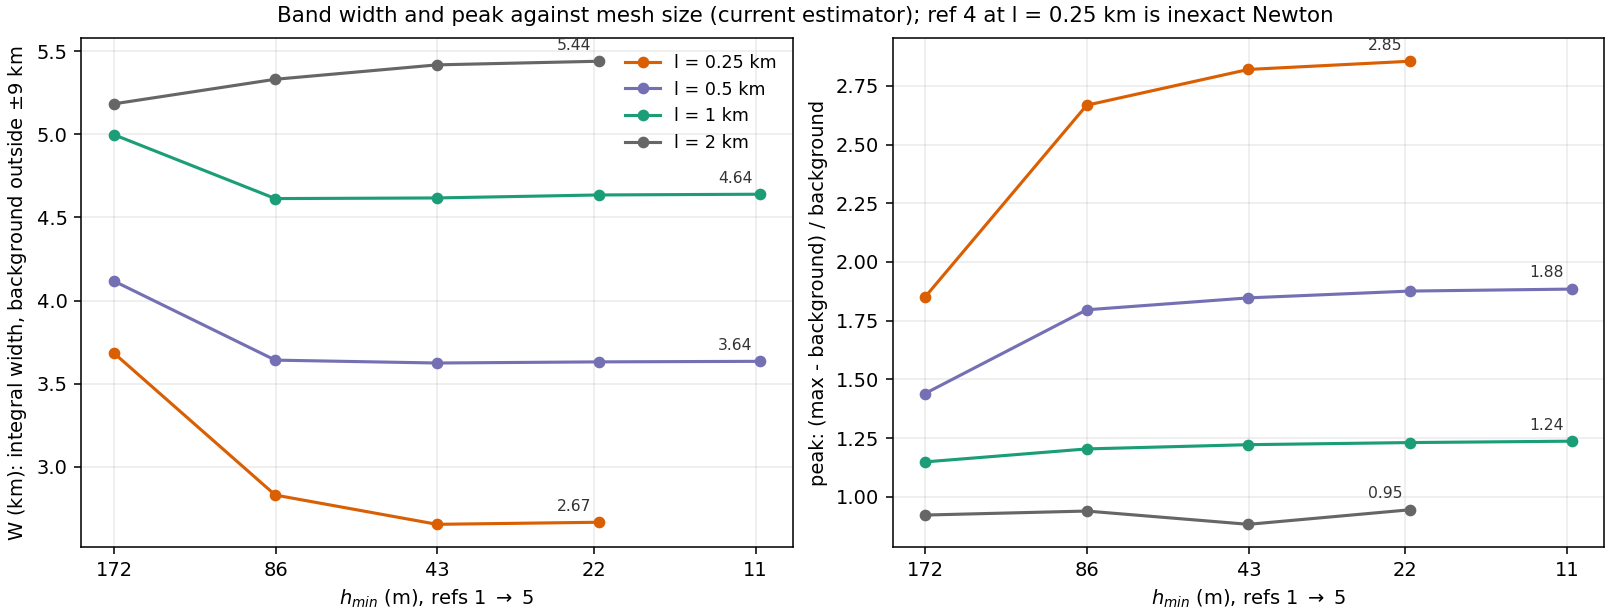
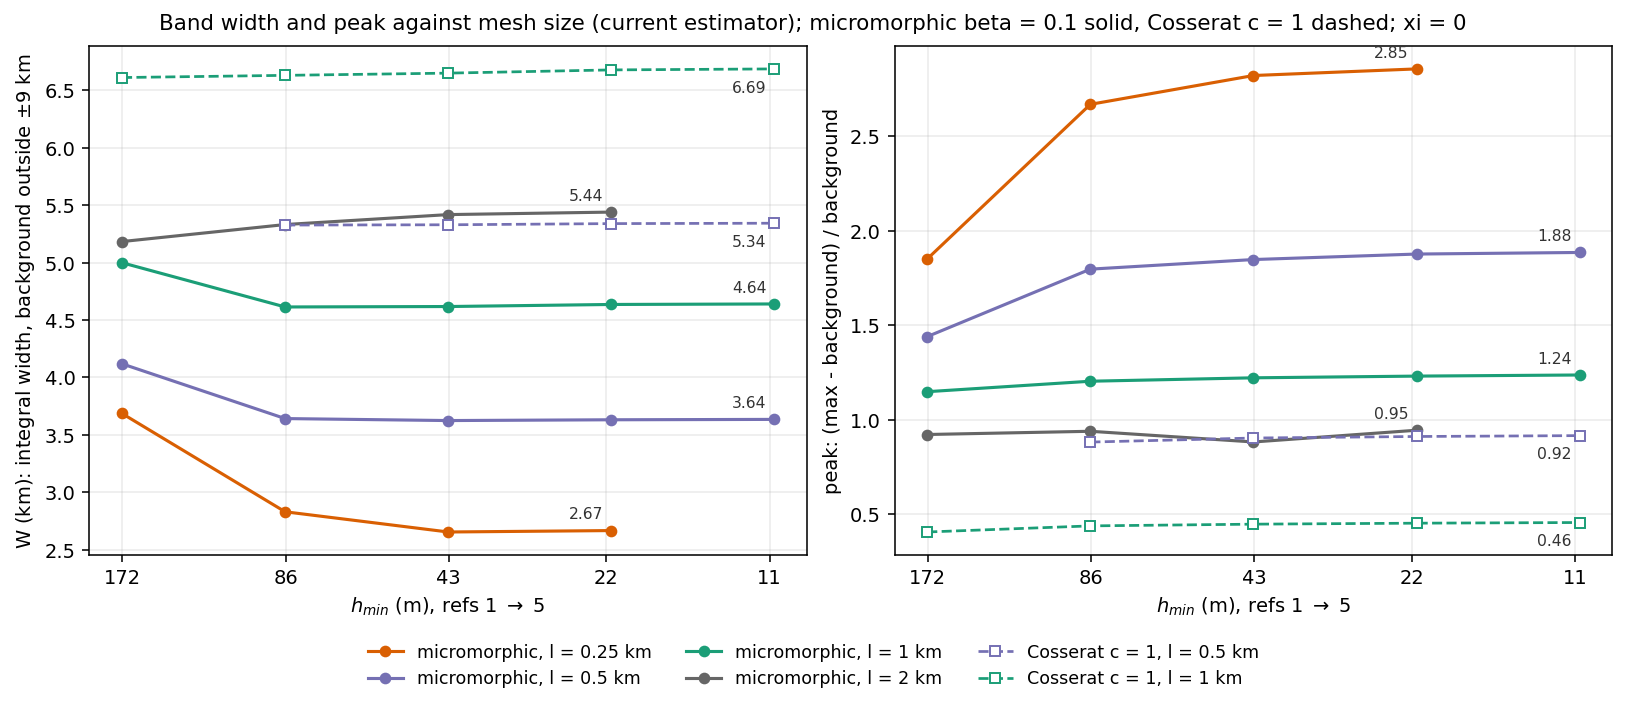
notch: Cosserat through ref 5; selective_ranks writes fixed
Cosserat (c = 1, omega P1, xi = 0) grid-sequenced to ref 4 (np 8) and ref 5 (np 16):
3-4 Newton steps, W 6.61 -> 6.69 km (l = 1) and 5.33 -> 5.34 km (l = 0.5) over refs
1-5, current estimator. About 45% wider and 2-2.7x weaker in peak than micromorphic
at the same l; this replaces "15% wider, 4x weaker" (whole-cut background). Cosserat
maps, mesh zoom, profiles; Cosserat overlaid on width_peak_vs_h. FMG table gains the
Cosserat rows (flat, 27-36 per step; 47 at l = 1, ref 5, np 16).

uw.selective_ranks(0) is a generator context manager: the body runs on EVERY rank
and the yielded flag must be tested. The drivers' bare `with` blocks had every rank
write the same JSON; two of 139 files were corrupted (trailing duplicate text,
recovered from the first document). All four sites now test the flag.

campaign_runner: -uw_linger keeps polling for appended jobs before exiting.

Underworld development team with AI support from Claude Code

diff --git a/notch_length_scale/drivers/plot_refinement.py b/notch_length_scale/drivers/plot_refinement.py
@@ -18,12 +18,18 @@ _here = os.path.dirname(os.path.abspath(__file__))
 RES = os.path.join(_here, "..", "results")
 FIG = os.path.join(_here, "..", "figures")
 rows = json.load(open(os.path.join(RES, "current_widths.json")))
+_coss = os.path.join(RES, "current_widths_cosserat.json")
+coss_rows = json.load(open(_coss)) if os.path.exists(_coss) else []
 REF_COLOURS = {1: "#c6dbef", 2: "#9ecae1", 3: "#4292c6", 4: "#08519c", 5: "#08306b"}
 REF_WIDTH = {1: 1.0, 2: 1.2, 3: 1.5, 4: 1.8, 5: 2.0}
 
-fig, axes = plt.subplots(1, 2, figsize=(11.5, 4.6), constrained_layout=True, sharey=True)
-for ax, l_km in zip(axes, (1.0, 0.5)):
-    for r in sorted((r for r in rows if r["l_km"] == l_km), key=lambda r: r["ref"]):
+for model_rows, label, out in ((rows, "Micromorphic notch, beta = 0.1", "refinement_profiles.png"),
+                               (coss_rows, "Cosserat notch, c = 1", "refinement_profiles_cosserat.png")):
+  if not model_rows:
+    continue
+  fig, axes = plt.subplots(1, 2, figsize=(11.5, 4.6), constrained_layout=True, sharey=True)
+  for ax, l_km in zip(axes, (1.0, 0.5)):
+    for r in sorted((r for r in model_rows if r["l_km"] == l_km), key=lambda r: r["ref"]):
         p = r["profile"]
         ax.plot(p["y_km"], p["over_background"], color=REF_COLOURS[r["ref"]],
                 lw=REF_WIDTH[r["ref"]],
@@ -33,11 +39,10 @@ for ax, l_km in zip(axes, (1.0, 0.5)):
                  fontsize=10)
     ax.set_xlabel("y (km)")
     ax.grid(alpha=0.25)
-axes[0].set_ylabel(r"$\dot\varepsilon_{II}$ / background (median outside $\pm$9 km)")
-axes[1].legend(frameon=False, fontsize=9)
-fig.suptitle("Micromorphic notch, beta = 0.1, xi = 0: profile across the left band, refs 1-5",
-             fontsize=11)
-fig.savefig(os.path.join(FIG, "refinement_profiles.png"), dpi=140)
+  axes[0].set_ylabel(r"$\dot\varepsilon_{II}$ / background (median outside $\pm$9 km)")
+  axes[1].legend(frameon=False, fontsize=9)
+  fig.suptitle(f"{label}, xi = 0: profile across the left band, refs 1-5", fontsize=11)
+  fig.savefig(os.path.join(FIG, out), dpi=140)
 
 L_COLOURS = {0.25: "#d95f02", 0.5: "#7570b3", 1.0: "#1b9e77", 2.0: "#666666"}
 fig, axes = plt.subplots(1, 2, figsize=(11.5, 4.4), constrained_layout=True)
@@ -48,9 +53,19 @@ for l_km, colour in L_COLOURS.items():
     h = np.array([1e3 * r["h_min_km"] for r in sel])
     for ax, key in zip(axes, ("W_km", "peak")):
         ax.plot(h, [r[key] for r in sel], "-o", color=colour, ms=5, lw=1.6,
-                label=f"l = {l_km:g} km")
+                label=f"micromorphic, l = {l_km:g} km")
         ax.annotate(f"{sel[-1][key]:.2f}", (h[-1], sel[-1][key]), textcoords="offset points",
                     xytext=(-4, 6), ha="right", fontsize=8, color="#333333")
+for l_km, colour in L_COLOURS.items():
+    sel = sorted((r for r in coss_rows if r["l_km"] == l_km), key=lambda r: r["ref"])
+    if not sel:
+        continue
+    h = np.array([1e3 * r["h_min_km"] for r in sel])
+    for ax, key in zip(axes, ("W_km", "peak")):
+        ax.plot(h, [r[key] for r in sel], "--s", color=colour, ms=5, lw=1.4, mfc="white",
+                label=f"Cosserat c = 1, l = {l_km:g} km")
+        ax.annotate(f"{sel[-1][key]:.2f}", (h[-1], sel[-1][key]), textcoords="offset points",
+                    xytext=(-4, -12), ha="right", fontsize=8, color="#333333")
 h_ticks = sorted({round(1e3 * r["h_min_km"]) for r in rows}, reverse=True)
 for ax in axes:
     ax.set_xscale("log")
@@ -61,8 +76,10 @@ for ax in axes:
     ax.grid(alpha=0.25, which="both")
 axes[0].set_ylabel("W (km): integral width, background outside $\\pm$9 km")
 axes[1].set_ylabel("peak: (max - background) / background")
-axes[0].legend(frameon=False, fontsize=9)
-fig.suptitle("Band width and peak against mesh size (current estimator); "
-             "ref 4 at l = 0.25 km is inexact Newton", fontsize=11)
-fig.savefig(os.path.join(FIG, "width_peak_vs_h.png"), dpi=140)
+handles, labels = axes[0].get_legend_handles_labels()
+fig.legend(handles, labels, loc="lower center", ncol=3, frameon=False, fontsize=9,
+           bbox_to_anchor=(0.5, -0.13))
+fig.suptitle("Band width and peak against mesh size (current estimator); micromorphic "
+             "beta = 0.1 solid, Cosserat c = 1 dashed; xi = 0", fontsize=11)
+fig.savefig(os.path.join(FIG, "width_peak_vs_h.png"), dpi=140, bbox_inches="tight")
 print("written")

diff --git a/notch_length_scale/drivers/render_refinement.py b/notch_length_scale/drivers/render_refinement.py
@@ -28,25 +28,31 @@ sys.path.insert(0, _here)
 import coupled_notch as cn   # noqa: E402
 
 pv.OFF_SCREEN = True
+params = uw.Params(
+    uw_model=uw.Param("micromorphic", description="micromorphic (beta 0.1) | cosserat "
+                                                  "(c = 1, P1); xi = 0 either way"),
+)
+MODEL = str(params.uw_model)
+SUFFIX = "" if MODEL == "micromorphic" else "_" + MODEL
 if uw.mpi.size > 1:
     raise RuntimeError("render_refinement.py draws on one process: run it without mpirun")
 
 RES = os.path.join(_here, "..", "results")
 FIG = os.path.join(_here, "..", "figures")
-CHECKPOINTS = os.path.join(RES, "micromorphic", "checkpoints")
+CHECKPOINTS = os.path.join(RES, MODEL, "checkpoints")
 L_ROWS = [1.0, 0.5]
 REFS = [3, 4, 5]
 MAP_BOX = (-32.0, 32.0, -22.0, 0.0)            # x0, x1, y0, y1 in km
 ZOOM_HALF = 4.0                                # km: an 8 km x 8 km window (the band is ~6 km tall here)
 CUT_X = -15.0                                  # km, the profile cut
 widths = {(r["ref"], r["l_km"]): r["W_km"]
-          for r in json.load(open(os.path.join(RES, "current_widths.json")))}
+          for r in json.load(open(os.path.join(RES, f"current_widths{SUFFIX}.json")))}
 
 
 def load(ref, l_km):
     """The run's mesh as pyvista (km) with log10 edot_II / (V/H) at its vertices, and
     the y (km) of the band's peak on the cut x = -15 km."""
-    name = cn.canonical_run(ref, l_km)
+    name = cn.canonical_run(ref, l_km, model=MODEL)
     S = cn.build_notch(ref, 0.0, seed=False)
     S["v"].read_timestep(name, S["v"].name, 0, outputPath=CHECKPOINTS)
     pvm = vis.mesh_to_pv_mesh(S["mesh"])
@@ -152,9 +158,11 @@ def figure(boxes, with_mesh, out, title, annotate):
     print(path, "clim", clim)
 
 
-figure({k: MAP_BOX for k in panels}, False, "refinement_maps.png",
-       "Micromorphic notch, beta = 0.1, xi = 0: edot_II across refinement (refs 3, 4, 5)",
+LABEL = ("Micromorphic notch, beta = 0.1" if MODEL == "micromorphic"
+         else "Cosserat notch, c = 1, omega P1")
+figure({k: MAP_BOX for k in panels}, False, f"refinement_maps{SUFFIX}.png",
+       f"{LABEL}, xi = 0: edot_II across refinement (refs 3, 4, 5)",
        annotate=False)
-figure(zoom_boxes, True, "refinement_zoom.png",
-       f"The left band where it crosses x = {CUT_X:g} km, with the mesh "
+figure(zoom_boxes, True, f"refinement_zoom{SUFFIX}.png",
+       f"{LABEL}: the left band where it crosses x = {CUT_X:g} km, with the mesh "
        f"({2 * ZOOM_HALF:g} km window centred on the band's peak)", annotate=True)

diff --git a/tools/campaign_runner.py b/tools/campaign_runner.py
@@ -52,6 +52,8 @@ params = uw.Params(
                                            "with the underworld3 checkout of this env)"),
     uw_poll=uw.Param(30.0, description="seconds between checks"),
     uw_report=uw.Param(0, description="1 = print the jobs' states and stop"),
+    uw_linger=uw.Param(0.0, description="seconds to keep polling for appended jobs once "
+                                        "the queue is empty, before exiting"),
 )
 jobs_path = os.path.abspath(str(params.uw_jobs))
 status_path = str(params.uw_status) or jobs_path.replace(".jsonl", "") + ".status.jsonl"
@@ -148,6 +150,7 @@ def run():
     for job in queue:
         record(job["name"], "queued", np=job["np"])
     known = {job["name"] for job in queue} | finished | set(running)
+    idle_since = None
     while True:
         # jobs appended to the file while the runner is running join the queue
         for job in read_jobs():
@@ -156,7 +159,11 @@ def run():
                 queue.append(job)
                 record(job["name"], "queued", np=job["np"])
         if not (queue or running):
-            break
+            idle_since = idle_since or time.time()
+            if time.time() - idle_since >= float(params.uw_linger):
+                break
+        else:
+            idle_since = None
         for name, (proc, job, log) in list(running.items()):
             rc = proc.poll()
             if rc is not None:

diff --git a/notch_length_scale/drivers/coupled_notch.py b/notch_length_scale/drivers/coupled_notch.py
@@ -298,6 +298,7 @@ def write(out_dir, name, record, fields, mesh):
     os.makedirs(os.path.join(out_dir, "checkpoints"), exist_ok=True)
     mesh.write_timestep(name, 0, outputPath=os.path.join(out_dir, "checkpoints"),
                         meshVars=list(fields.values()), create_xdmf=False)
-    with uw.selective_ranks(0):
-        with open(os.path.join(out_dir, name + ".json"), "w") as fh:
-            json.dump(record, fh, indent=1, default=float)
+    with uw.selective_ranks(0) as rank0:  # the body runs on every rank: test the flag
+        if rank0:
+            with open(os.path.join(out_dir, name + ".json"), "w") as fh:
+                json.dump(record, fh, indent=1, default=float)

diff --git a/notch_length_scale/drivers/measure_current.py b/notch_length_scale/drivers/measure_current.py
@@ -61,5 +61,6 @@ for ref in [int(r) for r in str(params.uw_refs).split(",")]:
         uw.pprint(f"{name}: W {width['median']:.3f} km  peak {width['peak_over_background']:.3f}")
         del S
 
-with uw.selective_ranks(0):
-    json.dump(rows, open(os.path.join(RES, str(params.uw_out)), "w"), indent=1)
+with uw.selective_ranks(0) as rank0:      # the body runs on every rank: test the flag
+    if rank0:
+        json.dump(rows, open(os.path.join(RES, str(params.uw_out)), "w"), indent=1)

diff --git a/notch_length_scale/drivers/measure_sweep.py b/notch_length_scale/drivers/measure_sweep.py
@@ -81,6 +81,7 @@ for name in names:
               f"peak {rows[-1]['relative_peak']}")
     del S
 
-with uw.selective_ranks(0):
-    with open(os.path.join(RES, str(params.uw_out)), "w") as fh:
-        json.dump(rows, fh, indent=1)
+with uw.selective_ranks(0) as rank0:      # the body runs on every rank: test the flag
+    if rank0:
+        with open(os.path.join(RES, str(params.uw_out)), "w") as fh:
+            json.dump(rows, fh, indent=1)

diff --git a/notch_length_scale/drivers/window_check.py b/notch_length_scale/drivers/window_check.py
@@ -50,5 +50,6 @@ for ref, name in RUNS:
     rows.append(row)
     uw.pprint(name, {k: round(v, 3) for k, v in row["W"].items()})
     del S
-with uw.selective_ranks(0):
-    json.dump(rows, open(os.path.join(RES, str(params.uw_out)), "w"), indent=1)
+with uw.selective_ranks(0) as rank0:      # the body runs on every rank: test the flag
+    if rank0:
+        json.dump(rows, open(os.path.join(RES, str(params.uw_out)), "w"), indent=1)

diff --git a/notch_length_scale/REPORT.md b/notch_length_scale/REPORT.md
@@ -11,7 +11,7 @@ machine (load average ~48).
 |---|---|
 | 1. Coupled volume fields in `SNES_Stokes_SaddlePt` | done: tests pass, ordinary Stokes byte-identical |
 | 2. Micromorphic coupling on the notch | done for the first matrix: ref 3 converges with NO rate strengthening (ξ = 0) at β = 0.1, l = 1 km, in 6 exact Newton steps; W stops shrinking with h |
-| 3. 2-D Cosserat | done for the first matrix: converges at ref 3 with ξ = 0 in 4-5 steps; W converged in h (3.5 km at l = 0.5, ~4.1 km at l = 1) |
+| 3. 2-D Cosserat | done through ref 5 (2026-10-10): converges with ξ = 0 in 3-5 steps; W mesh-independent, 5.34 km at l = 0.5 and 6.69 km at l = 1 (current estimator), about 45% wider and 2-2.7× weaker in peak than micromorphic at the same l |
 
 ## Read this first (2026-10-10, refs 1-5)
 
@@ -103,12 +103,15 @@ to the run's refinement.
 | model | ref | h in band (m) | W (km) | W / h | coarsest level with W ≥ 2h | Krylov per Newton step | median / max | outcome |
 |---|---|---|---|---|---|---|---|---|
 | Cosserat, l = 0.5 km | 1 | 2120 | — | — | — | 35, 37, 36, 35, 29* | 35 / 37 | CONVERGED_FNORM_ABS (5) |
-| Cosserat, l = 0.5 km | 2 | 1060 | — | — | — | 34, 37, 36, 36, 30* | 36 / 37 | CONVERGED_FNORM_ABS (5) |
-| Cosserat, l = 0.5 km | 3 | 530 | — | — | — | 31, 36, 36, 35, 25* | 35 / 36 | CONVERGED_FNORM_ABS (5) |
-| Cosserat, l = 1 km | 1 | 2120 | — | — | — | 34, 36, 36, 35* | 36 / 36 | CONVERGED_FNORM_ABS (4) |
-| Cosserat, l = 1 km | 2 | 1060 | — | — | — | 33, 35, 36, 34* | 34 / 36 | CONVERGED_FNORM_ABS (4) |
-| Cosserat, l = 1 km | 3 | 530 | — | — | — | 33, 35, 35, 33* | 34 / 35 | CONVERGED_FNORM_ABS (4) |
-| Cosserat, l = 1 km | 4 | 265 | — | — | — | 39 | 39 / 39 | running (None) |
+| Cosserat, l = 0.5 km | 2 | 1060 | 5.33 | 5 | 1 (2120 m) | 34, 37, 36, 36, 30* | 36 / 37 | CONVERGED_FNORM_ABS (5) |
+| Cosserat, l = 0.5 km | 3 | 530 | 5.33 | 10 | 1 (2120 m) | 31, 36, 36, 35, 25* | 35 / 36 | CONVERGED_FNORM_ABS (5) |
+| Cosserat, l = 0.5 km | 4 | 265 | 5.34 | 20 | 1 (2120 m) | 38, 31, 32 | 32 / 38 | CONVERGED_FNORM_ABS (3) |
+| Cosserat, l = 0.5 km | 5 | 132 | 5.34 | 40 | 1 (2120 m) | 38, 28, 26, 18* | 27 / 38 | CONVERGED_FNORM_ABS (4) |
+| Cosserat, l = 1 km | 1 | 2120 | 6.61 | 3 | 1 (2120 m) | 34, 36, 36, 35* | 36 / 36 | CONVERGED_FNORM_ABS (4) |
+| Cosserat, l = 1 km | 2 | 1060 | 6.63 | 6 | 1 (2120 m) | 33, 35, 36, 34* | 34 / 36 | CONVERGED_FNORM_ABS (4) |
+| Cosserat, l = 1 km | 3 | 530 | 6.65 | 13 | 1 (2120 m) | 33, 35, 35, 33* | 34 / 35 | CONVERGED_FNORM_ABS (4) |
+| Cosserat, l = 1 km | 4 | 265 | 6.68 | 25 | 1 (2120 m) | 39, 32, 30* | 32 / 39 | CONVERGED_FNORM_ABS (3) |
+| Cosserat, l = 1 km | 5 | 132 | 6.69 | 50 | 1 (2120 m) | 39, 49, 47 | 47 / 49 | CONVERGED_FNORM_ABS (3) |
 | micromorphic, l = 0.25 km | 1 | 2120 | 3.69 | 2 | none | 37, 52, 52, 48, 42, 43, 43, 39* | 43 / 52 | CONVERGED_FNORM_ABS (8) |
 | micromorphic, l = 0.25 km | 2 | 1060 | 2.83 | 3 | 2 (1060 m) | 38, 188, 138, 99, 84, 63, 60, 63, 61, 58* | 63 / 188 | CONVERGED_FNORM_ABS (10) |
 | micromorphic, l = 0.25 km | 3 | 530 | 2.66 | 5 | 2 (1060 m) | 37 | 37 / 37 | killed: the next linear solve gave no output for 1 h (None) |
@@ -134,7 +137,10 @@ What it shows:
 - **A length scale keeps FMG flat when W is resolved on the coarse levels.**
   - Micromorphic at l = 1 and 2 km: 34-36 iterations per step at refs 1-3 (cold),
     and 27-32 at refs 4-5 (sequenced), with W ≥ 2h from FMG level 1 up.
-  - Cosserat: 34-36 at both l.
+  - Cosserat: 34-36 at refs 1-3 at both l, and 27-32 at refs 4-5, except l = 1 km
+    at ref 5 with 39, 49, 47. That run was at np 16 against np 8 at ref 4, and the
+    parallel FMG ran slightly weaker before (np 4: 227 against 216 Krylov in
+    total at ref 3). One point, not a trend yet.
 - **Where W approaches the coarse levels' h, the count grows.**
   - Micromorphic l = 0.5 km, cold: medians 39, 49, 54 at refs 1-3, with step maxima
     of 43, 64, 88.
@@ -215,15 +221,34 @@ near threshold and changes W by under 10%, but it already lowers the peak by
 (β = 0.05, l = 1 km: 3.91 → 3.26 km at refs 1 → 2), so the low-β cells need a ref-4
 check before W is quoted from them.
 
-**Cosserat, same integral width:**
-- c = 1, l = 1 km: W = 4.89, 4.91, 4.93 km at refs 1-3; peak 0.27, 0.29, 0.30.
-- c = 1, l = 0.5 km: W = 4.42, 4.45 km at refs 2-3.
+**Cosserat (2-D, c = 1, ω in P1, ξ = 0), refs 1-5** (2026-10-10; current estimator:
+integral width, background outside ±9 km; `results/current_widths_cosserat.json`).
+- l = 1 km: W = 6.61, 6.63, 6.65, 6.68, 6.69 km at refs 1-5; peak 0.41, 0.44, 0.45,
+  0.45, 0.46.
+- l = 0.5 km: W = 5.33, 5.33, 5.34, 5.34 km at refs 2-5; peak 0.88, 0.90, 0.91, 0.92.
+- Refs 4 and 5 are tight FMG, grid-sequenced from the ref below (np 8 and np 16):
+  3 Newton steps at l = 1 km and 3-4 at l = 0.5 km, 25 and 75 minutes. The
+  driver's -uw_init path is new for this.
 
-So the Cosserat width is mesh-independent too. At the same l it is only about 15%
-wider than the micromorphic band, but about 4× weaker in peak: diffuse zones rather than
-sharp bands. W is insensitive to c (0.5 or 1), to the degree of ω, and to ξ, which again
-lowers only the peak. The "Cosserat about twice as wide" stated further down came from
-the horizontal-cut estimator and is withdrawn.
+So the Cosserat band is mesh-independent through ref 5, like the micromorphic one.
+By the current estimator it is **about 45% wider at the same l** (6.69 against
+4.64 km at l = 1; 5.34 against 3.64 km at l = 0.5) and **2-2.7× weaker in peak**
+(0.46 against 1.24; 0.92 against 1.88).
+- This replaces the earlier "about 15% wider, about 4× weaker", which used the
+  whole-cut background. That background biases broad bands the most (see the window
+  check above).
+- The "twice as wide" stated further down came from the horizontal-cut estimator
+  and stays withdrawn.
+- W is insensitive to c (0.5 or 1), to the degree of ω, and to ξ, which again lowers
+  only the peak (refs 1-3, whole-cut background).
+
+Figures:
+[`refinement_maps_cosserat.png`](https://github.com/lmoresi/uw3-campaigns/blob/main/notch_length_scale/figures/refinement_maps_cosserat.png),
+[`refinement_zoom_cosserat.png`](https://github.com/lmoresi/uw3-campaigns/blob/main/notch_length_scale/figures/refinement_zoom_cosserat.png),
+[`refinement_profiles_cosserat.png`](https://github.com/lmoresi/uw3-campaigns/blob/main/notch_length_scale/figures/refinement_profiles_cosserat.png). Cosserat is
+also overlaid (dashed) on [`width_peak_vs_h.png`](https://github.com/lmoresi/uw3-campaigns/blob/main/notch_length_scale/figures/width_peak_vs_h.png).
+
+![Cosserat profiles across the left band, refs 2-5](figures/refinement_profiles_cosserat.png)
 
 The older widths in this report (horizontal cuts, then the 10%-support vertical
 "equivalent width") jitter by ±0.5 km on these tailed profiles and are superseded by
